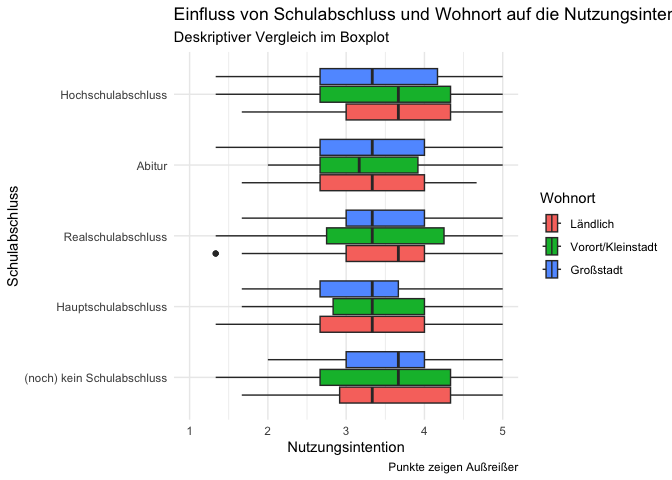
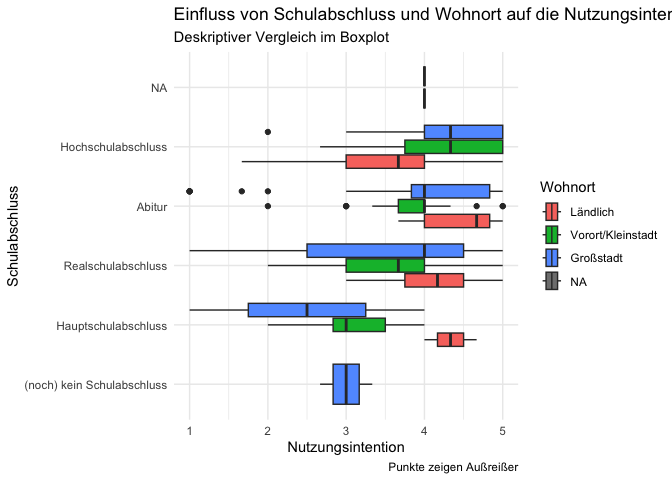
Hypothesen

diff --git a/Readme.md b/Readme.md
@@ -73,6 +73,9 @@ Erwartung an Zeitaufwand/Zeiteffizienz: intervallskaliert -&gt;
 Likert-Skala (2 Items) Operationaliserung stellt Forschungslücke dar,
 Items in Anlehnung an ChatGPT umformuliert
 
+    ## Warning: Removed 5 rows containing non-finite outside the scale range
+    ## (`stat_bin()`).
+
 ![](Readme_files/figure-markdown_strict/unnamed-chunk-2-1.png)
 
 ![](Readme_files/figure-markdown_strict/unnamed-chunk-3-1.png)
@@ -123,13 +126,13 @@ werden. Somit ist das ein schwacher bis mittelstarker Effekt
     ##  Pearson's product-moment correlation
     ## 
     ## data:  df$Age and df$Vertrauen
-    ## t = 1.495, df = 698, p-value = 0.1354
+    ## t = -3.6097, df = 237, p-value = 0.000374
     ## alternative hypothesis: true correlation is not equal to 0
     ## 95 percent confidence interval:
-    ##  -0.01768193  0.13005332
+    ##  -0.3451796 -0.1044134
     ## sample estimates:
     ##        cor 
-    ## 0.05649494
+    ## -0.2282838
 
 \#Zusammenhangshypothese 2 —-
 
@@ -139,13 +142,13 @@ werden. Somit ist das ein schwacher bis mittelstarker Effekt
     ##  Pearson's product-moment correlation
     ## 
     ## data:  df$Behoerden and df$Vertrauen
-    ## t = 1.7774, df = 698, p-value = 0.07594
+    ## t = 1.179, df = 242, p-value = 0.2395
     ## alternative hypothesis: true correlation is not equal to 0
     ## 95 percent confidence interval:
-    ##  -0.007015373  0.140526234
+    ##  -0.05049002  0.19926953
     ## sample estimates:
     ##        cor 
-    ## 0.06712236
+    ## 0.07557501
 
 \#Zusammenhangshypothese 3 —-
 
@@ -155,13 +158,13 @@ werden. Somit ist das ein schwacher bis mittelstarker Effekt
     ##  Pearson's product-moment correlation
     ## 
     ## data:  df$Zeitersparnis and df$Szenario_B_BI
-    ## t = 1.0743, df = 698, p-value = 0.2831
+    ## t = 10.523, df = 242, p-value < 2.2e-16
     ## alternative hypothesis: true correlation is not equal to 0
     ## 95 percent confidence interval:
-    ##  -0.03357469  0.11438769
+    ##  0.4676251 0.6408007
     ## sample estimates:
-    ##        cor 
-    ## 0.04062924
+    ##       cor 
+    ## 0.5603058
 
 \#Zusammenhangsypothese 4 —-
 
@@ -171,30 +174,54 @@ werden. Somit ist das ein schwacher bis mittelstarker Effekt
     ##  Pearson's product-moment correlation
     ## 
     ## data:  df$Privatsphäre and df$BF_Offenheit
-    ## t = -0.24648, df = 698, p-value = 0.8054
+    ## t = 0.29904, df = 242, p-value = 0.7652
     ## alternative hypothesis: true correlation is not equal to 0
     ## 95 percent confidence interval:
-    ##  -0.08337407  0.06481879
+    ##  -0.1066239  0.1444564
     ## sample estimates:
-    ##          cor 
-    ## -0.009328859
+    ##        cor 
+    ## 0.01921928
 
 \#komplexe Unterschiedshypothese —-
 
-    ANOVA(df, dep = "Szenario_B_BI", factors = c("Bildungsabschluss", "Wohnort"))
+    table(df$Wohnort)
+
+    ## 
+    ##          Ländlich Vorort/Kleinstadt         Großstadt 
+    ##                37                83               118
+
+    table(df$Bildungsabschluss)
+
+    ## 
+    ## (noch) kein Schulabschluss        Hauptschulabschluss 
+    ##                          2                         13 
+    ##         Realschulabschluss                     Abitur 
+    ##                         32                         76 
+    ##         Hochschulabschluss 
+    ##                        115
+
+    df$Wohnort %>% 
+      recode(`Ländlich` = "Nicht Großstadt", `Vorort/Kleinstadt` = "Nicht Großstadt", `Großstadt` = "Großstadt") %>% 
+      as.factor() -> df$Wohnort4Anova
+
+    df$Bildungsabschluss %>% 
+      recode(`(noch) kein Schulabschluss` = "kein Hochschulabschluss", `Hauptschulabschluss` = "kein Hochschulabschluss", `Realschulabschluss` = "kein Hochschulabschluss", `Abitur` = "kein Hochschulabschluss", `Hochschulabschluss`= "Hochschulabschluss") %>% 
+      as.factor() -> df$Bildungsabschluss4Anova
+
+    ANOVA(df, dep = "Szenario_B_BI", factors = c("Bildungsabschluss4Anova", "Wohnort4Anova"))
 
     ## 
     ##  ANOVA
     ## 
-    ##  ANOVA - Szenario_B_BI                                                                            
-    ##  ──────────────────────────────────────────────────────────────────────────────────────────────── 
-    ##                                 Sum of Squares    df     Mean Square    F             p           
-    ##  ──────────────────────────────────────────────────────────────────────────────────────────────── 
-    ##    Bildungsabschluss                 3.8994764      4     0.97486909    1.02237890    0.3948496   
-    ##    Wohnort                           0.1565208      2     0.07826041    0.08207439    0.9212125   
-    ##    Bildungsabschluss:Wohnort         4.7345840      8     0.59182300    0.62066523    0.7608799   
-    ##    Residuals                       653.1681385    685     0.95353013                              
-    ##  ────────────────────────────────────────────────────────────────────────────────────────────────
+    ##  ANOVA - Szenario_B_BI                                                                                        
+    ##  ──────────────────────────────────────────────────────────────────────────────────────────────────────────── 
+    ##                                             Sum of Squares    df     Mean Square    F             p           
+    ##  ──────────────────────────────────────────────────────────────────────────────────────────────────────────── 
+    ##    Bildungsabschluss4Anova                      16.7003939      1     16.7003939    14.6553018    0.0001659   
+    ##    Wohnort4Anova                                 0.7205473      1      0.7205473     0.6323107    0.4273183   
+    ##    Bildungsabschluss4Anova:Wohnort4Anova         5.0758211      1      5.0758211     4.4542476    0.0358807   
+    ##    Residuals                                   265.5142711    233      1.1395462                              
+    ##  ────────────────────────────────────────────────────────────────────────────────────────────────────────────
 
 \#Diagrame zu den Hypothesen
 
@@ -206,6 +233,12 @@ Einfache Zusammenhangshypothesen
 <!-- -->
 
     ## `geom_smooth()` using formula = 'y ~ x'
+
+    ## Warning: Removed 5 rows containing non-finite outside the scale range
+    ## (`stat_smooth()`).
+
+    ## Warning: Removed 5 rows containing missing values or values outside the scale range
+    ## (`geom_point()`).
 
 ![](Readme_files/figure-markdown_strict/unnamed-chunk-9-1.png)
 
@@ -245,7 +278,7 @@ Komplexe Unterschiedshypothese
 
 <!-- -->
 
-    ## Warning: Removed 30 rows containing non-finite outside the scale range
+    ## Warning: Removed 29 rows containing non-finite outside the scale range
     ## (`stat_boxplot()`).
 
 ![](Readme_files/figure-markdown_strict/unnamed-chunk-13-1.png)
